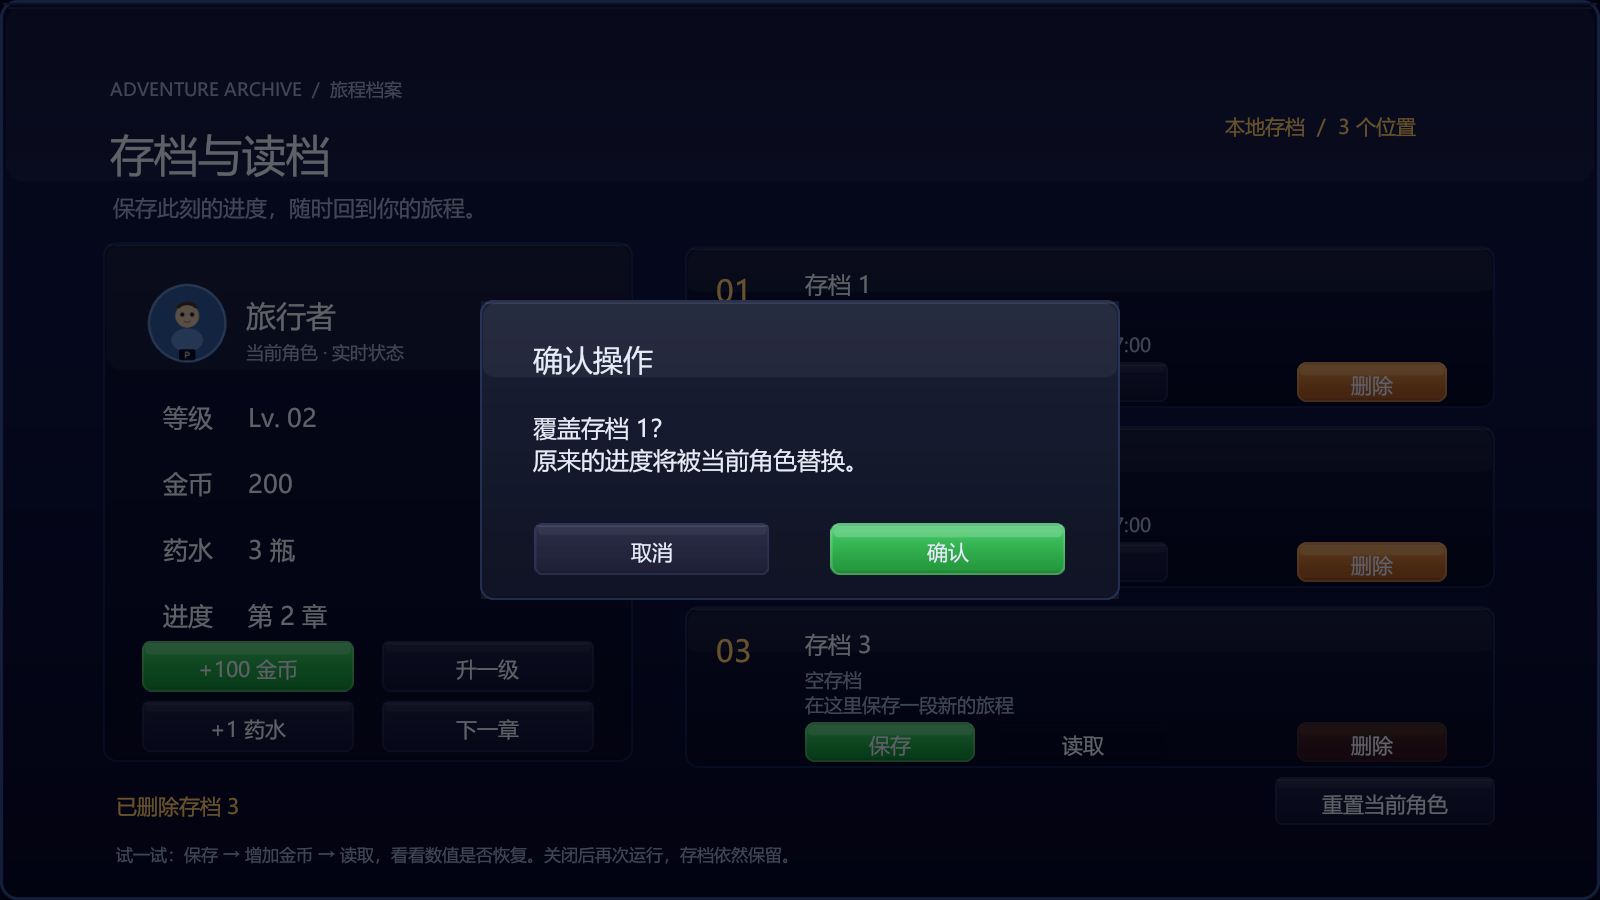
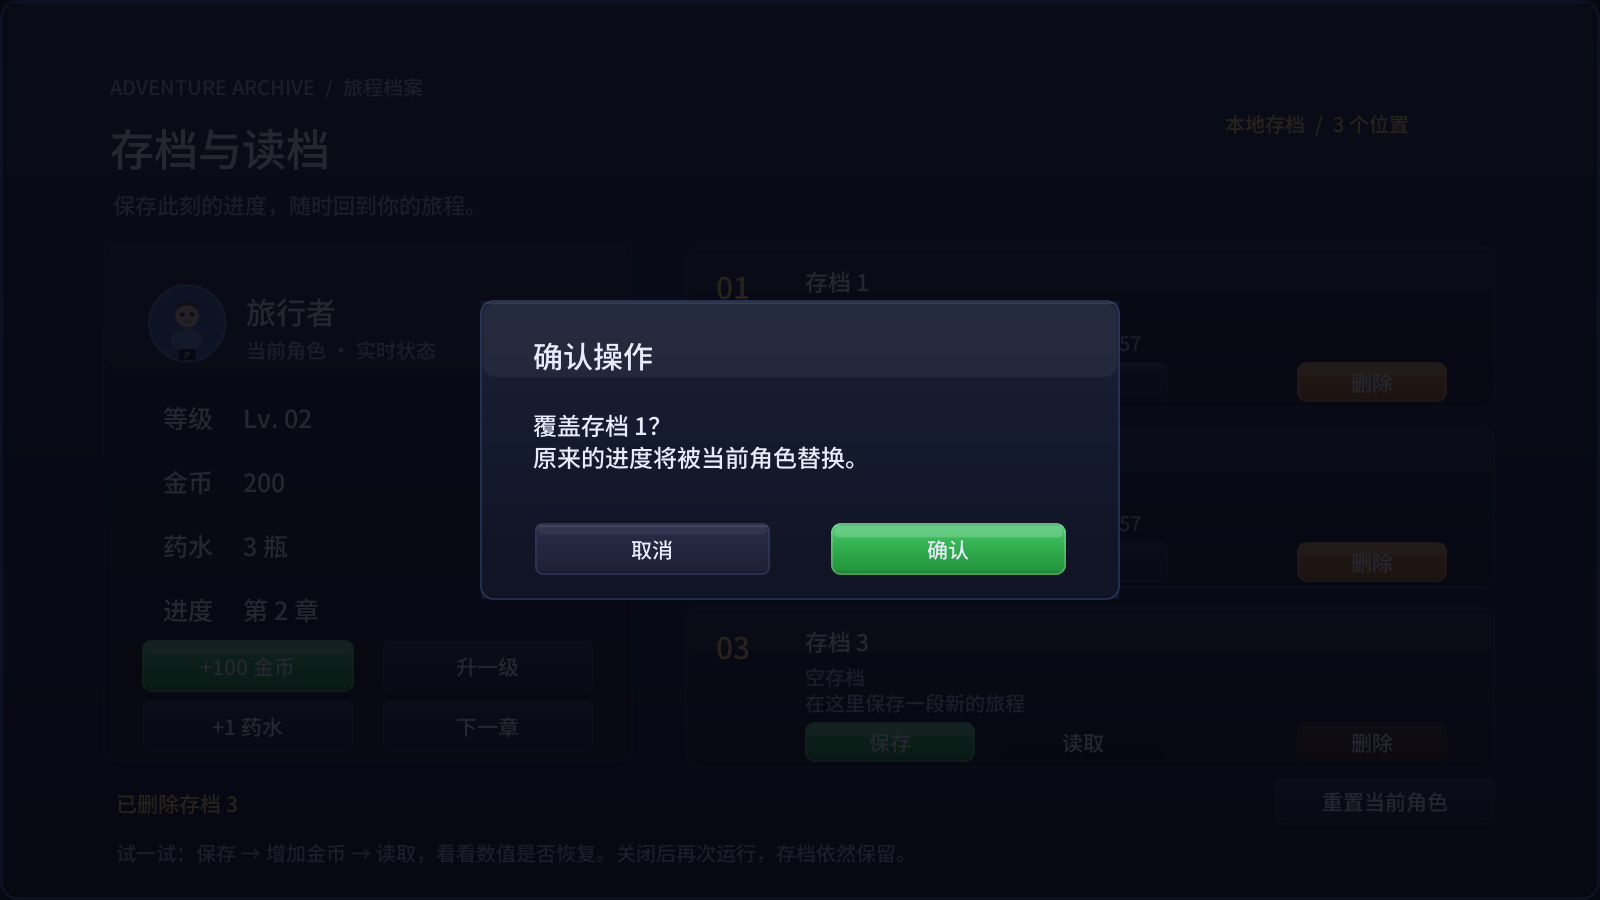
Publish Unity and Godot save and localization clarity updates

diff --git a/note.html b/note.html
@@ -37,6 +37,7 @@
             font-size: 16px;
             color: #333;
             line-height: 1.75;
+            overflow-wrap: anywhere;
         }
         .content-text br {
             display: none;
